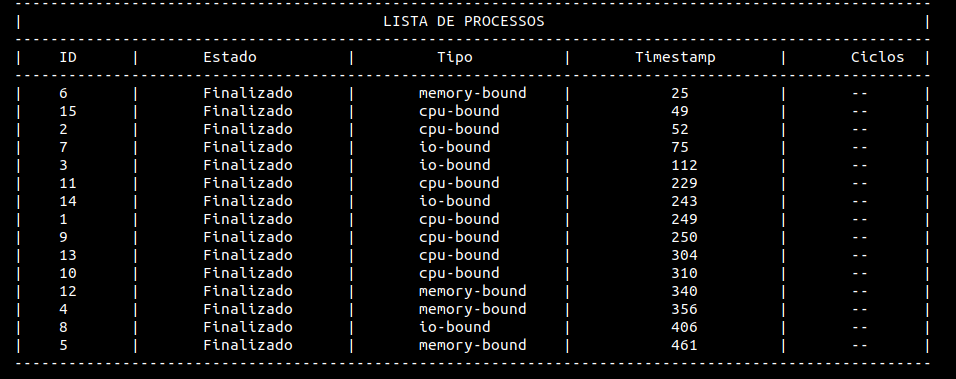
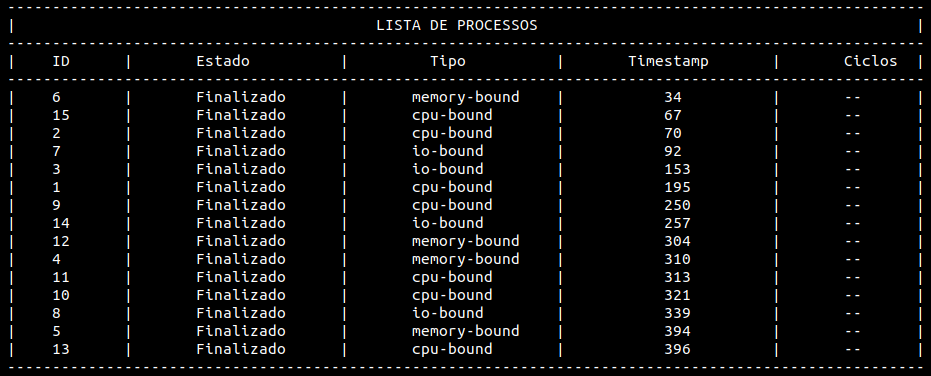
Correções pequenas

Changed region(s): [[0.0, 0.0, 0.9968, 0.9947], [0.9656, 0.2048, 0.9968, 0.9362]]

diff --git a/src/scheduler/policies/mfp/mfp_execute.cpp b/src/scheduler/policies/mfp/mfp_execute.cpp
@@ -272,67 +272,6 @@ void MFP::execute_processes(){
             if(this->priority1.empty()) current_process = NULL;
             else                        current_process = &this->priority1.front();
         }
-
-
-
-
-
-
-         /*if(current_process != NULL){ 
-            if(quantum <= 0){
-                
-                cout<<"\n\n\n\n\n\n\nQuantum = 0"<<endl;
-                cout<<"Lisa de prioridade 1"<<endl;
-                for(int i = 0; i < (int) this->priority1.size(); i++){
-                    cout<<"\tprocesso: " << this->priority1.front().get_id()<<endl;
-                    this->priority1.push_back(this->priority1.front());
-                    this->priority1.pop_front();
-                }
-
-                cout<<"\nLisa de Bloqueados"<<endl;
-
-                for(int i = 0; i < (int) this->block.size(); i++){
-                    cout<<"\tprocesso: " << this->block.front().get_id()<<endl;
-                    this->block.push_back(this->block.front());
-                    this->block.pop_front();
-                }
-
-                this->generate_token();
-                this->distribute_tokens();
-                list_iterator = this->raffle();
-                this->recover_tokens(list_iterator);
-                quantum = random_number_mfp( list_iterator->get_max_quantum());
-                list_iterator->sub_quantum(quantum);
-            }
-            
-
-            if(list_iterator->get_status() == status_ready && await == false){
-                await = true;
-                if     (list_iterator->get_type() == "cpu-bound"   ) executing_process_cpu    (&*list_iterator);
-                else if(list_iterator->get_type() == "memory-bound") executing_process_memory (&*list_iterator);
-                else if(list_iterator->get_type() == "io-bound"    ) executing_process_storage(&*list_iterator);
-
-            }
-         }
-
-
-
-
-        this->memory_ref->add_time_memory();
-        this->storage_ref->add_time_storage();
-        this->update_timestamp();
-        this->check_block_list();
-        this->check_finished(list_iterator, &quantum);
-        
-        
-        quantum--;
-        
-        if(quantum <= 0){
-            await = false;
-            this->check_process_in_pogress(list_iterator);
-        }
-
-        */
         usleep( (quantum_time * 1000000) );
 
     }while( (int) this->finalized.size() < size_list_process  );

diff --git a/src/main.cpp b/src/main.cpp
@@ -8,7 +8,7 @@
 #include "shell/shell.hpp"
 #include "scheduler/scheduler.hpp"
 
-#define quantum_time 0.2
+#define quantum_time 0.5
 
  
 
@@ -22,7 +22,7 @@ int main(){
     cout << fixed << setprecision(3);
 
     Kernel*    kernel    = new Kernel;
-    Scheduler* scheduler = new Scheduler(kernel, quantum_time, mfp_policie_string);
+    Scheduler* scheduler = new Scheduler(kernel, quantum_time, fifo_policie_string);
     Shell*     shell     = new Shell;
 
     pthread_t thread_execute_process; 
